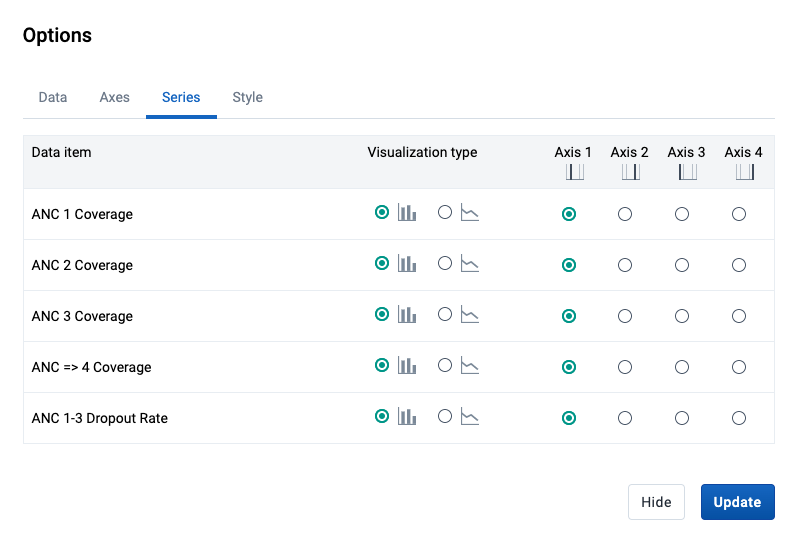
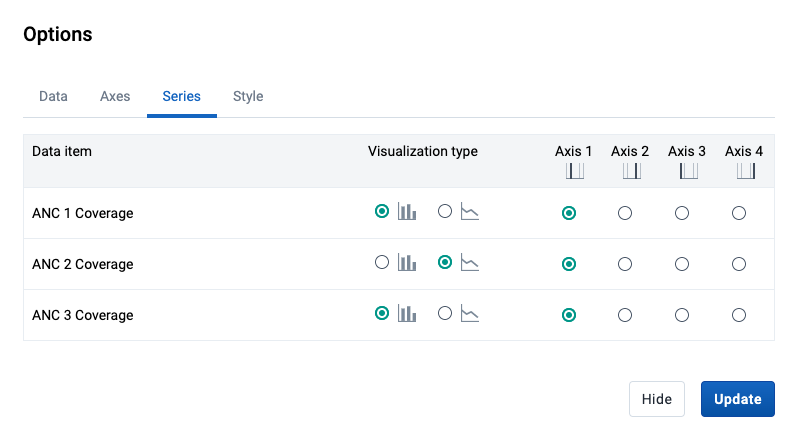
docs: new screenshots for multi type charts

diff --git a/src/commonmark/en/content/user/data-visualizer.md b/src/commonmark/en/content/user/data-visualizer.md
@@ -476,7 +476,8 @@ Another way of adding assigned categories is by accessing the **Add Assigned Cat
 
 ## Adding more axes
 
-When combining data with different measurement scales you will get a more meaningful visualization by having more than a single axis. For `Column`, `Bar` `Area` and `Line` you can do so by clicking the **Series tab** in the `Options` dialog. If the option is disabled, make sure that the `Data` dimension is on the `Series` axis and that at least two items have been added.
+When combining data with different measurement scales you will get a more meaningful visualization by having more than a single axis. For `Column`, `Bar`, `Area` and `Line` you can do so by clicking the **Series tab** in the `Options` dialog. If the option is disabled, make sure that the `Data` dimension is on the `Series` axis and that at least two items have been added.
+
 Four axes are available, two on the left side (axis 1 and 3) of the chart and two on the right side (axis 2 and 4).
 Each axis has a different color and the chart items are going to be colored accordingly.
 
@@ -489,6 +490,10 @@ Note: When multiple axes are in use, some options like `Lines`, `Vertical (y) ax
 It's possible to combine a `Column` chart with `Line` items and vice versa. This is done by clicking the **Series tab** in the `Options` dialog and changing the `Visualization type`. This can also be combined with using multiple axes (as described in the section above).
 
 ![](resources/images/data-visualizer/data-visualizer-series-tab-multi-axis-multi-type.png)
+
+This results in a chart that combines the `Column` and `Line` types.
+
+![](resources/images/data-visualizer/data-visualizer-multi-type-chart.png)
 
 ## Data drilling
 
